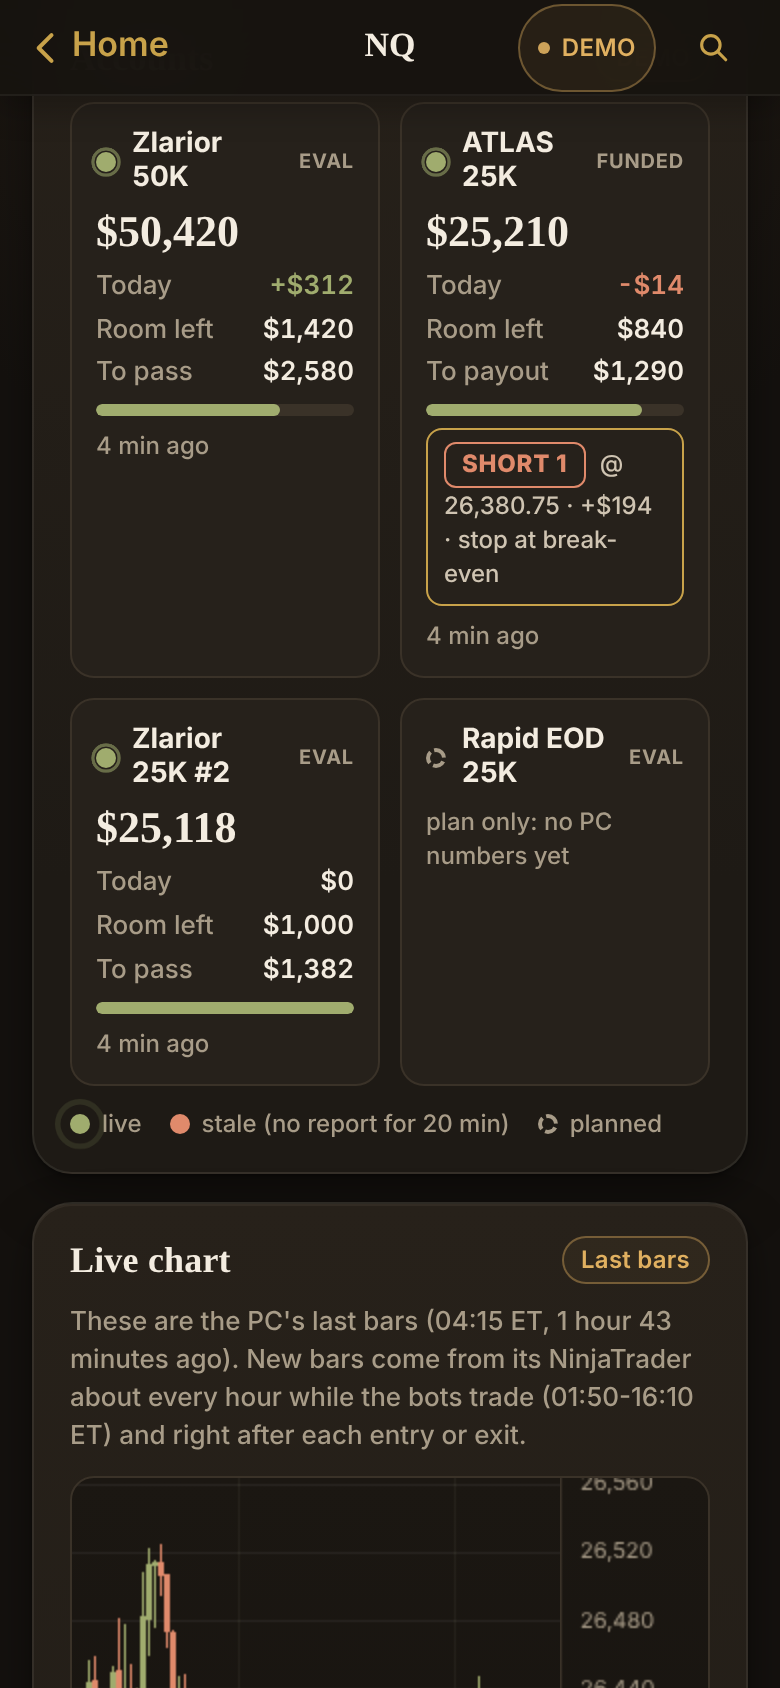
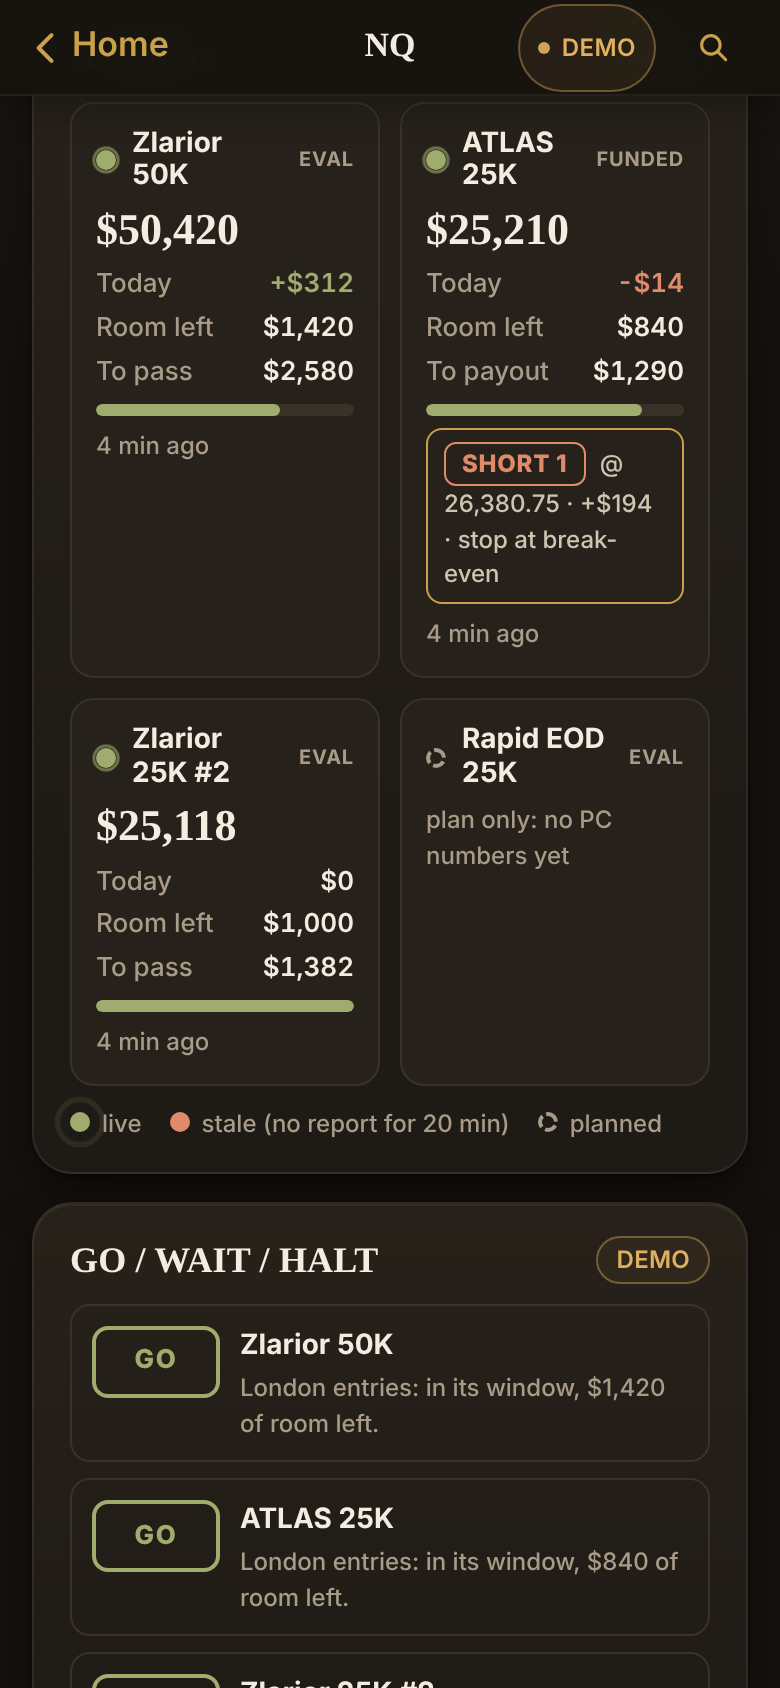
NQ: live chart back on the first 390x844 screen (accounts strip, GO/WAIT/HALT and the day line moved under it); nq.js no longer names the chart module; test_nq_chart 44/44, nq_page 70/70, nq_desk 32/32
Claude-Session: https://claude.ai/code/session_01EwJ4kP9tMpzeH2pRUCwv3A

diff --git a/tools/web_public/nq/index.html b/tools/web_public/nq/index.html
@@ -52,7 +52,24 @@
     <button type="button" class="btn primary" id="bannerBtn" data-howto aria-haspopup="dialog" aria-expanded="false">Bring the bots back (3 steps)</button>
   </section>
 
-  <!-- nqdash3 2026-11-20 (nqdesk.js): every MFFU account at a glance, a live / stale dot from the PC's 15-minute report -->
+  <!-- the live chart (owner 2026-11-18, nqchart.js + nqbars.js): the PC's NinjaTrader 5-minute bars with every entry, stop and target; its own module -->
+  <section class="ag-card card" id="chartCard" aria-labelledby="chartH">
+    <div class="row"><h2 id="chartH">Live chart</h2><span class="pill" id="chartPill">Loading</span></div>
+    <p class="note" id="chartAsOf" hidden></p>
+    <div class="chartbox" id="chartBox" role="img" aria-label="The NQ chart with our trades">
+      <div class="chart" id="chart"></div>
+      <p class="chartmsg" id="chartMsg">Loading the PC's chart...</p>
+    </div>
+    <div class="chips" id="chartChips" role="group" aria-label="Show the trades of"></div>
+    <div class="row chartfoot"><p class="note ckey" id="chartKey" hidden>Arrow = entry (its colour = the account's dot) · round dot = exit + $ · red line stop, green target, dashed entry</p>
+      <button type="button" class="btn" id="chartWhole" hidden>Whole day</button></div>
+    <h3 class="cth" id="chartTradesH" hidden>Today's trades on the chart</h3>
+    <ol class="ctrades" id="chartTrades"></ol>
+    <p class="note">The bars come from your PC's NinjaTrader about every hour while the bots trade (01:50-16:10 ET) and right after each entry or exit; it never shows made-up prices. Tap a trade to see it on the chart.</p>
+    <a class="attrib" id="chartAttrib" href="https://www.tradingview.com/" target="_blank" rel="noopener">Chart: TradingView Lightweight Charts™, © TradingView, Inc.</a>
+  </section>
+
+    <!-- nqdash3 2026-11-20 (nqdesk.js): every MFFU account at a glance, a live / stale dot from the PC's 15-minute report -->
   <section class="ag-card card" id="acctCard" aria-labelledby="acctH">
     <div class="row"><h2 id="acctH">Accounts</h2><span class="pill" id="acctPill">Loading</span></div>
     <div class="dk-strip" id="acctStrip" role="list" aria-label="Each MFFU account"></div>
@@ -71,23 +88,6 @@
     <h2 id="dayH">The bots' day</h2>
     <div id="dayLine"></div>
     <a class="dk-more" href="../kairos/">The full day ring (Kairos)</a>
-  </section>
-
-  <!-- the live chart (owner 2026-11-18, nqchart.js + nqbars.js): the PC's NinjaTrader 5-minute bars with every entry, stop and target; its own module -->
-  <section class="ag-card card" id="chartCard" aria-labelledby="chartH">
-    <div class="row"><h2 id="chartH">Live chart</h2><span class="pill" id="chartPill">Loading</span></div>
-    <p class="note" id="chartAsOf" hidden></p>
-    <div class="chartbox" id="chartBox" role="img" aria-label="The NQ chart with our trades">
-      <div class="chart" id="chart"></div>
-      <p class="chartmsg" id="chartMsg">Loading the PC's chart...</p>
-    </div>
-    <div class="chips" id="chartChips" role="group" aria-label="Show the trades of"></div>
-    <div class="row chartfoot"><p class="note ckey" id="chartKey" hidden>Arrow = entry (its colour = the account's dot) · round dot = exit + $ · red line stop, green target, dashed entry</p>
-      <button type="button" class="btn" id="chartWhole" hidden>Whole day</button></div>
-    <h3 class="cth" id="chartTradesH" hidden>Today's trades on the chart</h3>
-    <ol class="ctrades" id="chartTrades"></ol>
-    <p class="note">The bars come from your PC's NinjaTrader about every hour while the bots trade (01:50-16:10 ET) and right after each entry or exit; it never shows made-up prices. Tap a trade to see it on the chart.</p>
-    <a class="attrib" id="chartAttrib" href="https://www.tradingview.com/" target="_blank" rel="noopener">Chart: TradingView Lightweight Charts™, © TradingView, Inc.</a>
   </section>
 
   <section class="ag-card card" id="sceneCard" aria-labelledby="sceneH">
@@ -164,7 +164,7 @@
   <div class="sheetbody" id="sheetBody"></div>
 </section>
 <script src="../nqdeep.js?v=1" defer></script>
-<script type="module" src="nq.js?v=r17"></script>
+<script type="module" src="nq.js?v=r18"></script>
 <script type="module" src="nqchart.js?v=c2"></script>
 <!-- QA round 6: the 3D loads after the first paint, and not at all on LITE (olympus/lazy3d.js) -->
 <script src="../olympus/lazy3d.js?v=l1" data-src="nqscene.js?v=q6c" data-skip="lite" data-event="nq3d" defer></script>

diff --git a/tools/web_public/nq/nq.js b/tools/web_public/nq/nq.js
@@ -197,7 +197,7 @@ function closeSheet() {
 }
 
 // ------------------------------------------------------------------------------------------------ nqdash3: accounts, thinking, quality (nqdesk.js)
-// the PC's chart post (nqchart.js keeps it in window.NQCHART.S.post): its open trades with the stop as it is now and the last bar's close
+// the PC's chart post (the live chart module keeps it in window.NQCHART.S.post): its open trades with the stop as it is now and the last bar's close
 function chartOf(post) {
   try {
     if (!post || typeof post !== 'object') return null;
@@ -273,7 +273,7 @@ function tryScene() {
   try { if (M.mount($('scene3d'), S.view.columns)) { S.scene = 'webgl'; $('scene3d').hidden = false; $('fallback').style.visibility = 'hidden'; renderScene(); } } catch (_) { S.scene = '2d'; }
 }
 window.addEventListener('nq3d', tryScene);
-window.addEventListener('nq-bars', () => { if (S.ready) renderDesk(); });   // a new chart post (nqchart.js): the open trade's stop and $ now
+window.addEventListener('nq-bars', () => { if (S.ready) renderDesk(); });   // a new chart post (the live chart module): the open trade's stop and $ now
 
 async function refresh() {
   if (S.forced || document.hidden) return;

diff --git a/research/handoff/2026-11-20/nqdash3/REPORT.md b/research/handoff/2026-11-20/nqdash3/REPORT.md
@@ -37,6 +37,15 @@
 | Tests | test_nq_desk 31/31 (4 new round-3 checks), test_trading_merged (new) 6/6, nq_page 70/70, trading_page 71/71; run_area: payready on board + trading, nq_desk / trading_merged / alert_audit on trading, alert_audit on pc |
 | Screens | merge/before_<app>.png (the 5 old apps), merge/after_nq_gate_day_*, after_nq_past_*, after_trading_reels_*, after_trading_why_* (dark + light) |
 
+## Round 4: the live chart back on the first phone screen
+test_nq_chart failed 2 checks on the merged tree. Both are fixed without touching the test: 44/44.
+- `nq.js` named the chart module in two comments (the test keeps nq.js free of any link to it). Reworded.
+- My cards pushed the chart to y = 1221. The chart box now ends at 826 of 844 px again. Only 18 px are left, so even a one-line accounts row
+  would push it off; the accounts strip, GO / WAIT / HALT and the day line now sit right under the chart.
+- Order: banner -> live chart -> accounts -> GO / WAIT / HALT -> the bots' day -> the columns ...
+- Tests: nq_chart 44/44, nq_page 70/70, nq_desk 32/32.
+- Screens: nq_first_screen_dark/light.png, nq_accounts_dark/light.png.
+
 **Not changed:** no bot process file (tools/pc_report.py is the 15-minute reporter, changed only in the chart-post timing), no engine/, no live_model, no sw.js / build / apps.js / APPS table, no olympus/ kit, no STATE.md (lead's).
 
 ## Tests (all run here)
